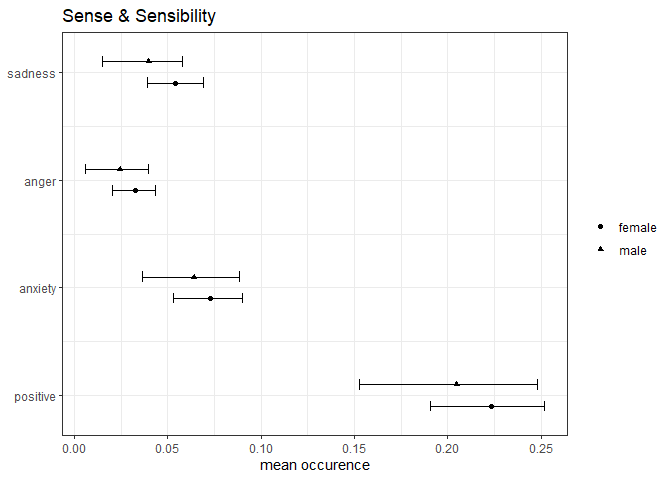
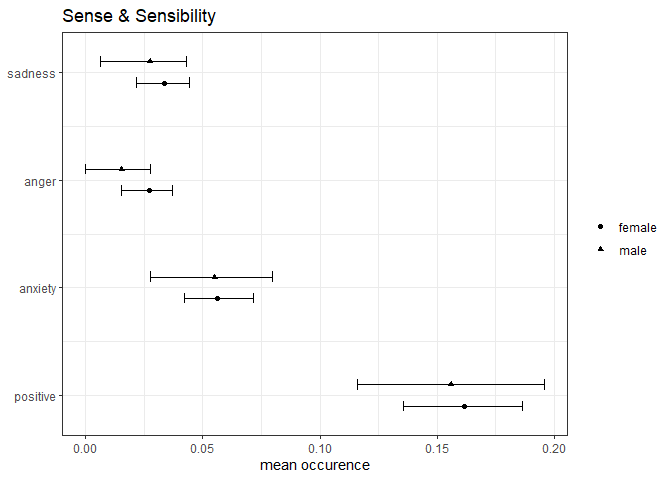
updated readme

diff --git a/README.md b/README.md
@@ -5,6 +5,7 @@
 
 <!-- badges: start -->
 
+[![R-CMD-check](https://github.com/till-tietz/rbow/workflows/R-CMD-check/badge.svg)](https://github.com/till-tietz/rbow/actions)
 <!-- badges: end -->
 
 rbow allows you to analyze texts with a view towards relevant terms,
@@ -78,7 +79,7 @@ books <- lapply(books, function(x)strsplit(x[,1]," ")[[1]])
 #you may wish to run rbow's utility functions for text cleaning and stemming at this point
 #clean_text will turn your tokens to lower case, remove stopwords, symbols, numbers etc. 
 #stem_texts stems your tokens
-books <- rbow::clean_text(texts = books, lexicon = "SMART")
+books <- rbow::clean_text(texts = books, rm_stopwords = TRUE, stopwords_language = "en")
 books <- rbow::stem_texts(texts = books, language = "english")
 
 #now let's define some phenomena we want to analyze. we might wish to know whether 
@@ -154,29 +155,29 @@ dfm <- rbow::dfm_analysis(corpus = books, phenomenon = phenomena, window = 10,
 head(dfm[[1]])
 #> $female
 #>         Var1 Freq
-#> 1   dashwood  380
-#> 2        jen  362
-#> 3        mrs  268
-#> 4     elinor  262
-#> 5    mariann  208
-#> 6  middleton  184
-#> 7     ferrar  153
-#> 8     sister  149
-#> 9       miss  147
-#> 10      john  142
+#> 1   dashwood  333
+#> 2        jen  320
+#> 3          s  308
+#> 4     elinor  192
+#> 5        mrs  182
+#> 6  middleton  168
+#> 7       said  159
+#> 8    mariann  153
+#> 9     ferrar  123
+#> 10    sister  111
 #> 
 #> $male
 #>          Var1 Freq
-#> 1        john  151
-#> 2         mrs   98
-#> 3      elinor   80
-#> 4      palmer   76
-#> 5    dashwood   72
-#> 6      ferrar   62
-#> 7        miss   62
-#> 8          mr   62
-#> 9     mariann   59
-#> 10 willoughbi   56
+#> 1        john  139
+#> 2           s  116
+#> 3         mrs   68
+#> 4      palmer   63
+#> 5        said   63
+#> 6      ferrar   56
+#> 7    dashwood   55
+#> 8      elinor   53
+#> 9  willoughbi   51
+#> 10       know   47
 ```
 
 You can extract words that are unique to the context of your phenomena
@@ -187,30 +188,30 @@ dfm <- rbow::dfm_analysis(corpus = books, phenomenon = phenomena, window = 10,
                           n_terms = 10, tf_idf = TRUE ,own_regex = FALSE)
 head(dfm[[1]])
 #> $female
-#>          Var1       tf-idf
-#> 1152      jen 0.0136073362
-#> 1357      mrs 0.0100739395
-#> 1328     miss 0.0055256310
-#> 1182     ladi 0.0041724152
-#> 1349   morton 0.0010525011
-#> 670     elder 0.0005262506
-#> 1384  newspap 0.0003007146
-#> 697    enforc 0.0002631253
-#> 2062   taylor 0.0002631253
-#> 2345 youngest 0.0002631253
+#>           Var1       tf-idf
+#> 1115       jen 0.0120285845
+#> 1321       mrs 0.0068412574
+#> 1291      miss 0.0039468793
+#> 1145      ladi 0.0031950928
+#> 1313    morton 0.0009021438
+#> 645      elder 0.0004886612
+#> 673     enforc 0.0002631253
+#> 1102 introduct 0.0001879466
+#> 1286     mirth 0.0001879466
+#> 1872     spark 0.0001879466
 #> 
 #> $male
-#>         Var1       tf-idf
-#> 880       mr 0.0065711201
-#> 1209     sir 0.0034975316
-#> 799     lord 0.0013778155
-#> 1016   pratt 0.0013778155
-#> 186   carpet 0.0003179574
-#> 266   conjur 0.0003179574
-#> 439       em 0.0003179574
-#> 583  gilbert 0.0003179574
-#> 636    henri 0.0003179574
-#> 707   infant 0.0003179574
+#>        Var1       tf-idf
+#> 843      mr 0.0042394323
+#> 1171    sir 0.0022257020
+#> 983   pratt 0.0013778155
+#> 766    lord 0.0007419007
+#> 260  conjur 0.0003179574
+#> 612   henri 0.0003179574
+#> 47    allus 0.0002119716
+#> 223   clerk 0.0002119716
+#> 421      em 0.0002119716
+#> 547    fuss 0.0002119716
 ```
 
 If you additionally only want to consider certain types of words
@@ -245,30 +246,30 @@ dfm <- rbow::dfm_analysis(corpus = books, phenomenon = phenomena, window = 10, n
                                   own_regex = FALSE)
 head(dfm[[1]])
 #> $female
-#>           Var1       tf-idf
-#> 670      elder 5.262506e-04
-#> 2275       way 1.503573e-04
-#> 1095    infect 1.127680e-04
-#> 1306   merrier 1.127680e-04
-#> 1578 prettiest 1.127680e-04
-#> 1637    putrid 1.127680e-04
-#> 1852     shill 1.127680e-04
-#> 2287  westward 1.127680e-04
-#> 338  christian 7.517865e-05
-#> 1170      keen 7.517865e-05
+#>            Var1       tf-idf
+#> 645       elder 4.886612e-04
+#> 1590     putrid 1.127680e-04
+#> 2216   westward 1.127680e-04
+#> 1063     infect 7.517865e-05
+#> 1270    merrier 7.517865e-05
+#> 1537  prettiest 7.517865e-05
+#> 2036 throughout 7.517865e-05
+#> 2245  withdrawn 7.517865e-05
+#> 97        amiss 3.758933e-05
+#> 262       brave 3.758933e-05
 #> 
 #> $male
 #>              Var1       tf-idf
-#> 145         black 0.0002119716
-#> 925         often 0.0002119716
-#> 75           arch 0.0001059858
-#> 141        bigger 0.0001059858
+#> 82           arch 0.0001059858
+#> 145        bigger 0.0001059858
+#> 149         black 0.0001059858
 #> 163         brave 0.0001059858
-#> 379 disinterested 0.0001059858
-#> 560   friendliest 0.0001059858
-#> 607         gross 0.0001059858
-#> 641        hinder 0.0001059858
-#> 813           mad 0.0001059858
+#> 362 disinterested 0.0001059858
+#> 540   friendliest 0.0001059858
+#> 616        hinder 0.0001059858
+#> 778           mad 0.0001059858
+#> 815           mid 0.0001059858
+#> 939         pearl 0.0001059858
 ```
 
 You can finally subset the output of dfm\_analysis by another
@@ -281,23 +282,23 @@ dfm <- rbow::dfm_analysis(corpus = books, phenomenon = phenomena, window = 10, n
 head(dfm[[4]])
 #> $female
 #>          Var1 tf-idf
-#> 240    bitter      0
-#> 1047 grievous      0
-#> 1116 helpless      0
-#> 1997      sad      0
+#> 246    bitter      0
+#> 1015 grievous      0
+#> 1913      sad      0
 #> NA       <NA>     NA
 #> NA.1     <NA>     NA
 #> NA.2     <NA>     NA
 #> NA.3     <NA>     NA
 #> NA.4     <NA>     NA
 #> NA.5     <NA>     NA
+#> NA.6     <NA>     NA
 #> 
 #> $male
 #>          Var1       tf-idf
-#> 1029 grievous 0.0001128904
-#> 234    bitter 0.0000000000
-#> 1095 helpless 0.0000000000
-#> 1979      sad 0.0000000000
+#> 983  grievous 0.0001128904
+#> 239    bitter 0.0000000000
+#> 1040 helpless 0.0000000000
+#> 1878      sad 0.0000000000
 #> NA       <NA>           NA
 #> NA.1     <NA>           NA
 #> NA.2     <NA>           NA
@@ -316,7 +317,7 @@ tf_idf <- rbow::tf_idf(corpus = books, terms = pride_and_prejudice_names)
 
 head(tf_idf)
 #>                   doc      tf.idf
-#> 2   Pride & Prejudice 0.005713898
+#> 2   Pride & Prejudice 0.004277573
 #> 1 Sense & Sensibility 0.000000000
 #> 3      Mansfield Park 0.000000000
 #> 4                Emma 0.000000000
